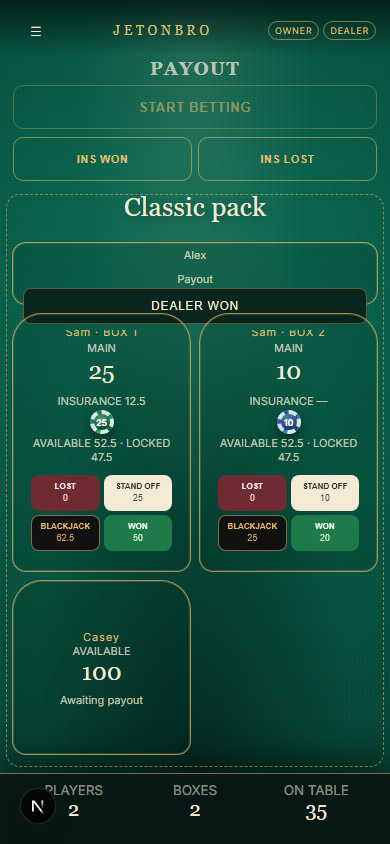
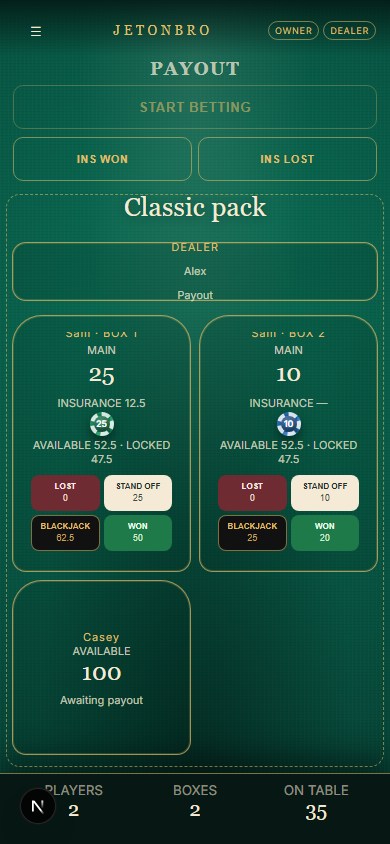
Keep Dealer Payout identity compact and remove the felt DEALER WON bar.

Changed region(s): [[0.0308, 0.2773, 0.9846, 0.5545]]

diff --git a/src/ui/skins/classic/components/ClassicBankTable.tsx b/src/ui/skins/classic/components/ClassicBankTable.tsx
@@ -26,7 +26,7 @@ export function ClassicBankTable({
   notice?: string | null;
 }) {
   const [sheet, setSheet] = useState<
-    "player" | "jetons" | "menu" | "close" | "funding" | "game" | "poker" | "rename" | "dealer" | null
+    "player" | "jetons" | "menu" | "close" | "funding" | "game" | "poker" | "rename" | "dealer" | "dealerWon" | null
   >(null);
   const [inviteOpen, setInviteOpen] = useState(false);
   const [email, setEmail] = useState("");
@@ -119,8 +119,6 @@ export function ClassicBankTable({
             <DealerHandBox
               name={view.dealerName ?? "Dealer"}
               status={dealerStatus}
-              showDealerWon={Boolean(view.actions.settleDealerWon)}
-              onDealerWon={() => onCommand("settleDealerWon")}
             />
             {view.players.length === 0
               ? view.boxes.map((box) => (
@@ -297,6 +295,11 @@ export function ClassicBankTable({
                   IN 7 SECONDS
                 </button>
               ) : null}
+              {view.actions.settleDealerWon ? (
+                <button type="button" onClick={() => setSheet("dealerWon")}>
+                  DEALER WON
+                </button>
+              ) : null}
               {view.phase === "BETTING" ? (
                 <button type="button" onClick={() => { setSheet(null); setInviteOpen(true); }}>
                   ADD PLAYER
@@ -380,6 +383,25 @@ export function ClassicBankTable({
               ))}
               <button className="gold-button" type="button" disabled={!view.actions.closeTable} onClick={() => { onCommand("closeTable"); setSheet(null); }}>
                 Confirm close
+              </button>
+              <button className="text-link" type="button" onClick={() => setSheet("menu")}>
+                Cancel
+              </button>
+            </>
+          ) : null}
+          {sheet === "dealerWon" ? (
+            <>
+              <h3>Dealer won</h3>
+              <p>Dealer wins against all unresolved boxes?</p>
+              <button
+                className="gold-button"
+                type="button"
+                onClick={() => {
+                  onCommand("settleDealerWon");
+                  setSheet(null);
+                }}
+              >
+                Confirm
               </button>
               <button className="text-link" type="button" onClick={() => setSheet("menu")}>
                 Cancel

diff --git a/e2e/blackjack-payout-rail.spec.ts b/e2e/blackjack-payout-rail.spec.ts
@@ -98,7 +98,8 @@ test("payout rail order, per-box gestures, and player blackjack celebration", as
   await page.getByRole("button", { name: "ENTER PAYOUT" }).click();
   await expect(page.getByText("PAYOUT", { exact: true })).toBeVisible();
   await expect(page.locator("[data-dealer-box]")).toBeVisible();
-  await expect(page.getByRole("button", { name: "DEALER WON" })).toBeVisible();
+  await expect(page.locator("[data-dealer-box]")).toContainText("DEALER");
+  await expect(page.locator("[data-table-board=BLACKJACK_DEALER]").getByRole("button", { name: "DEALER WON" })).toHaveCount(0);
   await page.screenshot({ path: join(process.cwd(), "docs", "screenshots", "classic", "app-blackjack-dealer-payout-390x844.png") });
 
   const payoutSnap = (await tableSnapshot(page)) as {
@@ -252,9 +253,11 @@ test("DEALER WON settles unresolved boxes as LOST and leaves Insurance alone", a
   expect(boxes.length).toBeGreaterThanOrEqual(2);
   await page.locator(`[data-box-id="${boxes[0]!.id}"]`).getByRole("button", { name: /^WON/ }).click();
   await expect(page.locator(`[data-box-id="${boxes[0]!.id}"]`)).toContainText(/Won/i, { timeout: 10_000 });
-  await page.getByRole("button", { name: "DEALER WON" }).click();
+  await expect(page.locator("[data-table-board=BLACKJACK_DEALER]").getByRole("button", { name: "DEALER WON" })).toHaveCount(0);
+  await openTableMenu(page);
+  await page.locator(".sheet.open").getByRole("button", { name: "DEALER WON" }).click();
   await expect(page.getByText("Dealer wins against all unresolved boxes?")).toBeVisible();
-  await page.locator("[data-dealer-box]").getByRole("button", { name: "Confirm" }).click();
+  await page.locator(".sheet.open").getByRole("button", { name: "Confirm" }).click();
   await expect(page.locator(`[data-box-id="${boxes[1]!.id}"]`)).toContainText(/Lost/i, { timeout: 10_000 });
   await expect(page.locator(`[data-box-id="${boxes[0]!.id}"]`)).toContainText(/Won/i);
   await expect(page.getByRole("button", { name: "INS WON" })).toBeVisible();

diff --git a/src/ui/skins/classic/layouts.css b/src/ui/skins/classic/layouts.css
@@ -435,7 +435,7 @@
 .classic-skin .dealer-grid .dealer-hand-row {
   grid-column: 1 / -1;
   height: auto;
-  min-height: 72px;
+  min-height: 0;
   padding: 10px 12px;
   display: flex;
   flex-direction: column;
@@ -444,7 +444,7 @@
   gap: 2px;
 }
 
-.classic-skin .dealer-grid .box.dealer-box,
+.classic-skin .dealer-grid .box.dealer-box:not(.dealer-hand-row),
 .classic-skin .dealer-grid .payout-row.dealer-box {
   height: 175px;
   min-height: 175px;
@@ -488,9 +488,24 @@
 
 .classic-skin .dealer-grid .box-name {
   position: static;
+  top: auto;
   color: var(--gold);
   font-size: 11px;
   letter-spacing: 0.08em;
+  line-height: 1.3;
+  max-width: 100%;
+  overflow: visible;
+  white-space: normal;
+}
+
+.classic-skin .dealer-grid .dealer-hand-row .box-name,
+.classic-skin .dealer-grid .dealer-hand-row .hint {
+  position: static;
+  top: auto;
+  overflow: visible;
+  max-width: 100%;
+  text-align: center;
+  padding-inline: 4px;
 }
 
 .classic-skin .dealer-grid .amount {
@@ -1045,11 +1060,11 @@
     height: 42px;
   }
 
-  .classic-skin .dealer-grid .box {
+  .classic-skin .dealer-grid .box:not(.dealer-hand-row) {
     height: 155px;
   }
 
-  .classic-skin .dealer-grid .box.dealer-box,
+  .classic-skin .dealer-grid .box.dealer-box:not(.dealer-hand-row),
   .classic-skin .dealer-grid .payout-row.dealer-box {
     height: 155px;
     min-height: 155px;
@@ -2228,9 +2243,17 @@
   height: auto;
   min-height: 0;
   max-height: none;
-  padding: 12px 10px 10px;
+  margin: 0 0 6px;
+  padding: 10px 12px;
+  border: 1.5px solid rgba(223, 189, 105, 0.72);
   border-radius: 14px;
+  background: rgba(2, 23, 18, 0.13);
   overflow: visible;
+  display: flex;
+  flex-direction: column;
+  align-items: center;
+  justify-content: center;
+  gap: 2px;
 }
 
 .classic-skin .dealer-grid .box.dealer-box.payout-row.is-unresolved {

diff --git a/e2e/classic-screenpack.spec.ts b/e2e/classic-screenpack.spec.ts
@@ -193,6 +193,12 @@ test("Classic Blackjack phase matrix, centred boxes, overflow, and Dealer Add Pl
   await expect(page.getByRole("button", { name: "START BETTING" })).toBeDisabled();
   await expect(page.getByRole("button", { name: "DEAL CARDS" })).toHaveCount(0);
   await expect(page.getByRole("button", { name: "WON" }).first()).toBeVisible();
+  await expect(page.locator("[data-dealer-box]")).toContainText("DEALER");
+  await expect(page.locator("[data-table-board=BLACKJACK_DEALER]").getByRole("button", { name: "DEALER WON" })).toHaveCount(0);
+  await overflowAt(page, 360, 800);
+  await overflowAt(page, 390, 844);
+  await overflowAt(page, 430, 932);
+  await page.setViewportSize({ width: 390, height: 844 });
   await page.screenshot({ path: join(shots, "dealer-payout-unresolved-390x844.png") });
 
   await page.locator(`[data-box-id="${box1Id}"]`).getByRole("button", { name: "WON" }).click();
@@ -200,6 +206,12 @@ test("Classic Blackjack phase matrix, centred boxes, overflow, and Dealer Add Pl
   await page.getByRole("button", { name: "INS LOST" }).click();
   await expect(page.getByRole("button", { name: "START BETTING" })).toBeEnabled({ timeout: 10_000 });
   await assertNoForbiddenCopy(page);
+  await expect(page.locator("[data-dealer-box]")).toContainText("DEALER");
+  await expect(page.locator("[data-table-board=BLACKJACK_DEALER]").getByRole("button", { name: "DEALER WON" })).toHaveCount(0);
+  await overflowAt(page, 360, 800);
+  await overflowAt(page, 390, 844);
+  await overflowAt(page, 430, 932);
+  await page.setViewportSize({ width: 390, height: 844 });
   await page.screenshot({ path: join(shots, "dealer-payout-resolved-390x844.png") });
 
   await playerPage.reload();

diff --git a/src/ui/skins/classic/components/DealerHandBox.tsx b/src/ui/skins/classic/components/DealerHandBox.tsx
@@ -1,50 +1,17 @@
 "use client";
 
-import { useState } from "react";
-
 export function DealerHandBox({
   name,
   status,
-  showDealerWon,
-  onDealerWon,
 }: {
   name: string;
   status: string;
-  showDealerWon?: boolean;
-  onDealerWon?: () => void;
 }) {
-  const [confirm, setConfirm] = useState(false);
   return (
     <div className="box dealer-box dealer-hand-row is-idle" data-dealer-box="true" data-blackjack-box-row="true">
       <span className="box-name">DEALER</span>
       <span className="hint">{name}</span>
       <span className="hint">{status}</span>
-      {showDealerWon ? (
-        confirm ? (
-          <div className="dealer-won-confirm">
-            <p>Dealer wins against all unresolved boxes?</p>
-            <div className="card-assist-actions">
-              <button
-                type="button"
-                className="gold-button"
-                onClick={() => {
-                  onDealerWon?.();
-                  setConfirm(false);
-                }}
-              >
-                Confirm
-              </button>
-              <button type="button" className="text-link" onClick={() => setConfirm(false)}>
-                Cancel
-              </button>
-            </div>
-          </div>
-        ) : (
-          <button type="button" className="panel-button" onClick={() => setConfirm(true)}>
-            DEALER WON
-          </button>
-        )
-      ) : null}
     </div>
   );
 }

diff --git a/src/ui/core/BankTable.test.tsx b/src/ui/core/BankTable.test.tsx
@@ -283,7 +283,8 @@ test("Bank payout keeps next hand locked while boxes and Insurance are unresolve
   expect(html).toContain("PAYOUT");
   expect(html).toContain("START BETTING");
   expect(html).toContain('data-dealer-box="true"');
-  expect(html).toContain("DEALER WON");
+  expect(html).toContain(">DEALER<");
+  expect(html).not.toContain("DEALER WON");
   expect(html).toContain("dealer-grid");
   expect(html).toContain("dealer-list");
   expect(html).not.toContain("bj-rail");

diff --git a/docs/DESIGN_AUTHORITY.md b/docs/DESIGN_AUTHORITY.md
@@ -197,7 +197,7 @@ Same two-column oval dealer boxes as the Classic screen pack (`dealer-grid`). Ea
 
 ### Payout
 
-Same Player/box structure. Settle `LOST` / `STAND-OFF` / `WON` / `BLACKJACK`. Insurance separately: `INS WON` / `INS LOST`. Primary remains disabled until every required box/insurance result is resolved, then `START BETTING` (`startNextRound`). Do not show `START NEXT ROUND` or `DEAL CARDS` until the next Betting phase. No Player play controls.
+Same Player/box structure and the same compact Dealer identity as Betting/Playing (`DEALER` + name + status). Do not render a felt `DEALER WON` banner. Settle `LOST` / `STAND-OFF` / `WON` / `BLACKJACK` inside each Player oval. Insurance separately: `INS WON` / `INS LOST`. Primary remains disabled until every required box/insurance result is resolved, then `START BETTING` (`startNextRound`). Do not show `START NEXT ROUND` or `DEAL CARDS` until the next Betting phase. No Player play controls.
 
 ## Owner utilities
 
@@ -211,6 +211,7 @@ These stay available and must not compete with play. They live in the compact me
 - limits / Open vs Limited Bank
 - optional Card Assist
 - countdown extras (`DEAL IN 7 SECONDS`, `IN 7 SECONDS`)
+- `DEALER WON` during Payout (owner bulk LOST for unresolved active boxes; never Insurance)
 
 The main phase-action row only progresses the round (plus Betting `ADD PLAYER`):
 

diff --git a/CHANGELOG.md b/CHANGELOG.md
@@ -7,7 +7,7 @@
 - Classic table UI follows `design/reference/classic/jetonbro-player-bank-insurance.html` tokens (Georgia + Inter, emerald/gold/ivory) and `blackjack-phase-controls.ts` for visible actions.
 - Dealer: Phase 0 `START BETTING` + `ADD PLAYER`; Betting `DEAL CARDS` + `ADD PLAYER`; Playing exclusive insurance + `ENTER PAYOUT`; Payout `START BETTING` after resolution.
 - Player: Betting `PLACE BET` / `RETRACT` / `ADD BOX`; Playing `2×` / `SPLIT` / conditional `INSURANCE`; Payout idle tray. Box 1 starts centred; Box 2 fills left without jumping.
-- Dealer live boxes use the screen-pack two-column oval grid (`NAME · BOX n`, MAIN, chips, AVAILABLE/LOCKED). Spreadsheet player headings are gone.
+- Dealer live boxes use the screen-pack two-column oval grid (`NAME · BOX n`, MAIN, chips, AVAILABLE/LOCKED). Spreadsheet player headings are gone. Dealer Payout uses the same compact `DEALER` identity as Betting/Playing, with no felt `DEALER WON` bar and no title clipping. Owner `DEALER WON` is a table-menu action.
 
 ### Live identity repair — request cookies, inline Create Table invites
 
